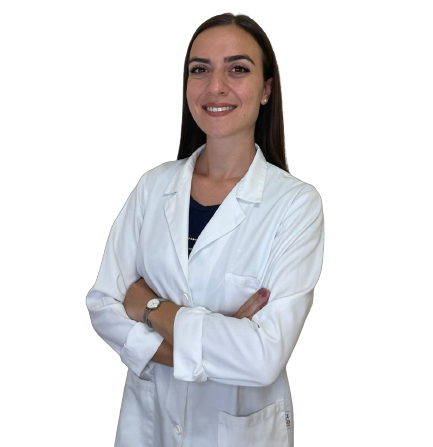
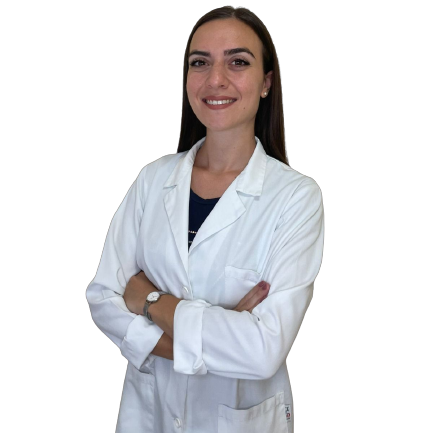
trying to optimize images (1)

diff --git a/src/ui/sections/About.jsx b/src/ui/sections/About.jsx
@@ -39,7 +39,7 @@ export default function AboutSection() {
             <Image
               src="/images/fisio1.webp"
               alt="Fisio 1"
-              width={600}
+              width={400}
               height={600}
               className="rounded-[100px]"
             />
@@ -48,7 +48,7 @@ export default function AboutSection() {
             <Image
               src="/images/fisio2.webp"
               alt="Fisio 2"
-              width={600}
+              width={400}
               height={600}
               className="rounded-[100px]"
             />

diff --git a/src/app/chi-sono/page.jsx b/src/app/chi-sono/page.jsx
@@ -12,8 +12,8 @@ export default function About() {
             <Image
               src="/images/fisioterapista.png"
               alt="Angela Formisano | Fisioterapista"
-              width={600}
-              height={600}
+              width={433}
+              height={433}
               className="rounded-full bg-primary-300/25"
             />
             <div className="flex flex-col gap-3 lg:items-start lg:max-w-[60%] lg:pr-32 items-center lg:px-0 px-4">

diff --git a/src/ui/components/index.js b/src/ui/components/index.js
@@ -5,7 +5,6 @@ export { default as Logo } from './Logo';
 export { default as DesktopMenuLinks } from './DesktopMenuLinks';
 export { default as MobileMenuLinks } from './MobileMenuLinks';
 export { default as DropdownMenu } from './DropdownMenu';
-export { default as Card } from './Card';
 export { default as Carousel } from './carousel/Carousel';
 export { default as AccordionItem } from './accordion/AccordionItem';
 export { default as Timeline } from './Timeline';

diff --git a/src/ui/sections/Hero.jsx b/src/ui/sections/Hero.jsx
@@ -39,8 +39,9 @@ export default function Hero() {
           <Image
             src="/images/fisioterapista.png"
             alt="Hero Image"
-            width={500}
-            height={500}
+            priority
+            width={433}
+            height={433}
           />
         </div>
       </div>
